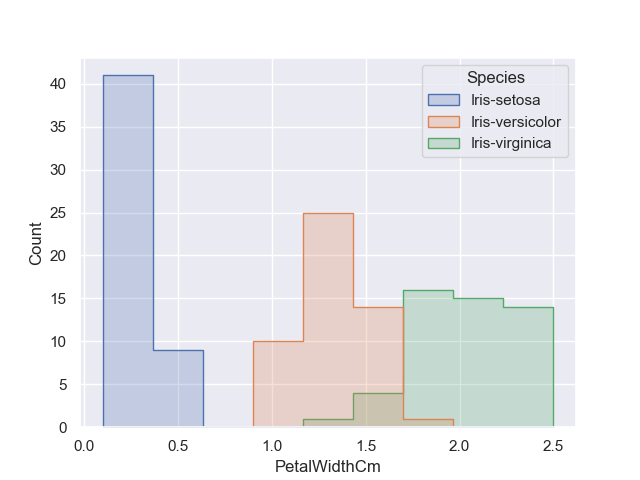
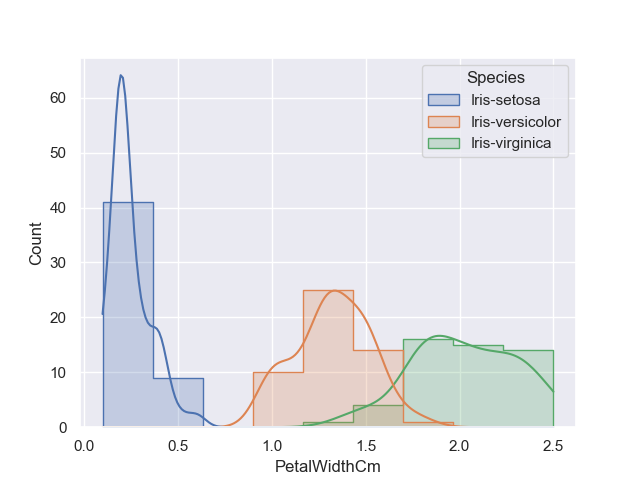
added kernel density estimate to histogram

diff --git a/analysis.py b/analysis.py
@@ -42,25 +42,25 @@ with open ('summaryOfVariables.txt', 'a') as file: # Append mode: 'a' opens file
 
 #Plotting histogram of each variable to png files
 # Histogram for SepalLengthCm
-sns.histplot(iris, x="SepalLengthCm", hue="Species", element="step") # https://seaborn.pydata.org/tutorial/distributions.html
+sns.histplot(iris, x="SepalLengthCm", hue="Species", element="step", kde=bool) # https://seaborn.pydata.org/tutorial/distributions.html
 #Save this plot as file
 plt.savefig('PNG/Histogram_Iris-SepalLength.png')   
 plt.show ()
 
 # Histogram for SepalWidthCm
-sns.histplot(iris, x="SepalWidthCm", hue="Species", element="step") # element="step" is used to resolve overlapping intervals. (https://seaborn.pydata.org/generated/seaborn.histplot.html)
+sns.histplot(iris, x="SepalWidthCm", hue="Species", element="step", kde=bool) # element="step" is used to resolve overlapping intervals. (https://seaborn.pydata.org/generated/seaborn.histplot.html)
 #Save this plot as file
 plt.savefig('PNG/Histogram_Iris-SepalWidth.png')   
 plt.show ()
 
 # Histogram for PetalLengthCm
-sns.histplot(iris, x="PetalLengthCm", hue="Species", element="step") # https://seaborn.pydata.org/tutorial/distributions.html
+sns.histplot(iris, x="PetalLengthCm", hue="Species", element="step", kde=bool) # https://seaborn.pydata.org/tutorial/distributions.html
 #Save this plot as file
 plt.savefig('PNG/Histogram_Iris-PetalLength.png')   
 plt.show ()
 
 # Histogram for PetalWidthCm
-sns.histplot(iris, x="PetalWidthCm", hue="Species", element="step") # https://seaborn.pydata.org/tutorial/distributions.html
+sns.histplot(iris, x="PetalWidthCm", hue="Species", element="step", kde=bool) # https://seaborn.pydata.org/tutorial/distributions.html
 #Save this plot as file
 plt.savefig('PNG/Histogram_Iris-PetalWidth.png')   
 plt.show ()

diff --git a/README.md b/README.md
@@ -182,7 +182,7 @@ The below Histograms have been created using the seaborn library with the x valu
 </div>
 
 ```python
-    sns.displot(iris, x="SepalLengthCm", hue="Species", element="step") 
+    sns.histplot(iris, x="SepalLengthCm", hue="Species", element="step") 
 ```
 
 <div align="justify">
@@ -190,8 +190,8 @@ Each plot has been saved to the folder PNG on the repository using matplotlib. S
 Every time the program runs the plots are shown one after another. The program completes each line from top to bottom, but each plot opened will need to be closed before the program will continue to the next plot. The plots are displayed every time the program is executed via the terminal using the command <i>python .\analysis.py</i>. 
 <i>iris</i> is the dataset used, while in the case of the code example the x-axis displays the values for SepalLenthCm. 
 The hue parameter determines which column of the dataset, in case of the project the categorical group species,  is used for colour coding (iris-setosa = blue, iris-versicolor = red, iris virginica = green). [21]
-The avoid not to be able to see each histogram of the three variables the element="step" parameter was assigned. This draws a step function and therefore overlapping graphs are visible. 
-The function displot() is used and  (https://seaborn.pydata.org/generated/seaborn.distplot.html?highlight=distplot)
+The avoid not to be able to see each histogram of the three variables the element="step" parameter was assigned. This draws a step function and therefore overlapping graphs are visible. This parameter is only relevant if univariant data is used. 
+The function histplot() is used and  (https://seaborn.pydata.org/generated/seaborn.distplot.html?highlight=distplot)
 
 In this project the general style for all graphs using the seaborn library was set, see code below:
 </div> 
